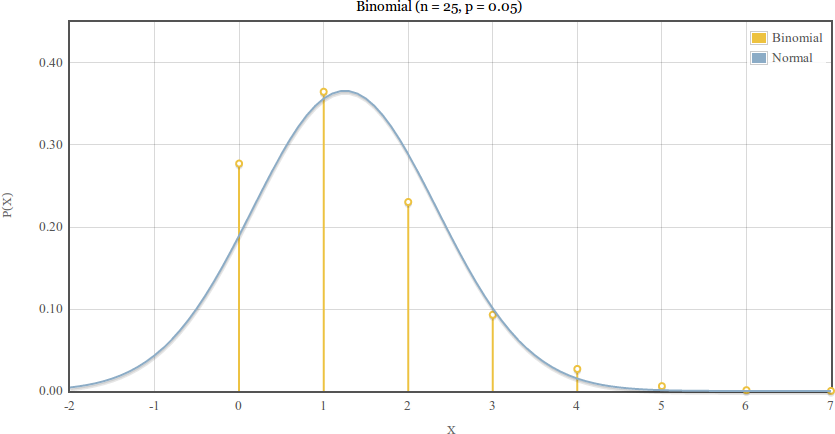
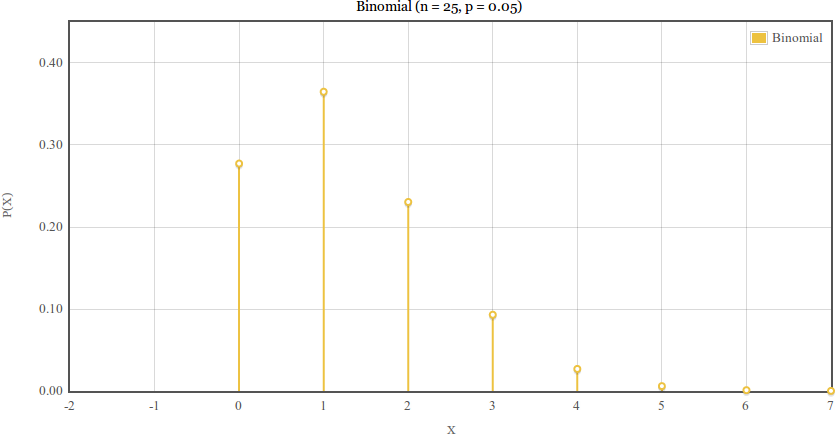
Added just binomial comparison graph.

diff --git a/project/calc/flot-pres/binomial-normal-sn.html b/project/calc/flot-pres/binomial-normal-sn.html
@@ -45,7 +45,35 @@
       // Our data will be properties on binomial, normal, and sn with names n#{n}p#{p}
 
       $(caterwaul.clone('std seq montenegro')(function () {
-        // n=25, p=0.05, no skew-normal
+        // n=25, p=0.05, binomial
+        var series = [
+          {
+            data: binomial.n25p005,
+            label: 'Binomial',
+            bars: {show:true, barWidth:0},
+            points: {show:true}
+          }
+        ];
+        var options = {
+          xaxis: {
+            min: -2,
+            max: 7 
+          },
+          yaxis: {
+            max:0.45
+          }
+        };
+        $('body').append(html[
+          div.box(
+            div.caption('Binomial (n = 25, p = 0.05)'),
+            div.plot /attr('id', 'binomial') /css({width:800, height:400}),
+            div.xlabel('X'),
+            div.ylabel('P(X)')
+          )
+        ]);
+        $.plot($('#binomial'), series, options);
+
+        // n=25, p=0.05, binomial, normal
         var series = [
           {
             data: binomial.n25p005,
@@ -72,15 +100,15 @@
         $('body').append(html[
           div.box(
             div.caption('Binomial (n = 25, p = 0.05)'),
-            div.plot /attr('id', 'comparison-n25p005-no-sn') /css({width:800, height:400}),
+            div.plot /attr('id', 'binomial-normal') /css({width:800, height:400}),
             div.xlabel('X'),
             div.ylabel('P(X)')
           )
         ]);
-        $.plot($('#comparison-n25p005-no-sn'), series, options);
+        $.plot($('#binomial-normal'), series, options);
 
 
-        // n=25, p=0.05, with skew-normal
+        // n=25, p=0.05, binomial, normal, skew-normal
         var series = [
           {
             data: binomial.n25p005,
@@ -113,12 +141,12 @@
         $('body').append(html[
           div.box(
             div.caption('Binomial (n = 25, p = 0.05)'),
-            div.plot /attr('id', 'comparison-n25p005-with-sn') /css({width:800, height:400}),
+            div.plot /attr('id', 'binomial-normal-sn') /css({width:800, height:400}),
             div.xlabel('X'),
             div.ylabel('P(X)')
           )
         ]);
-        $.plot($('#comparison-n25p005-with-sn'), series, options);
+        $.plot($('#binomial-normal-sn'), series, options);
       }));
     </script>
   </head>
